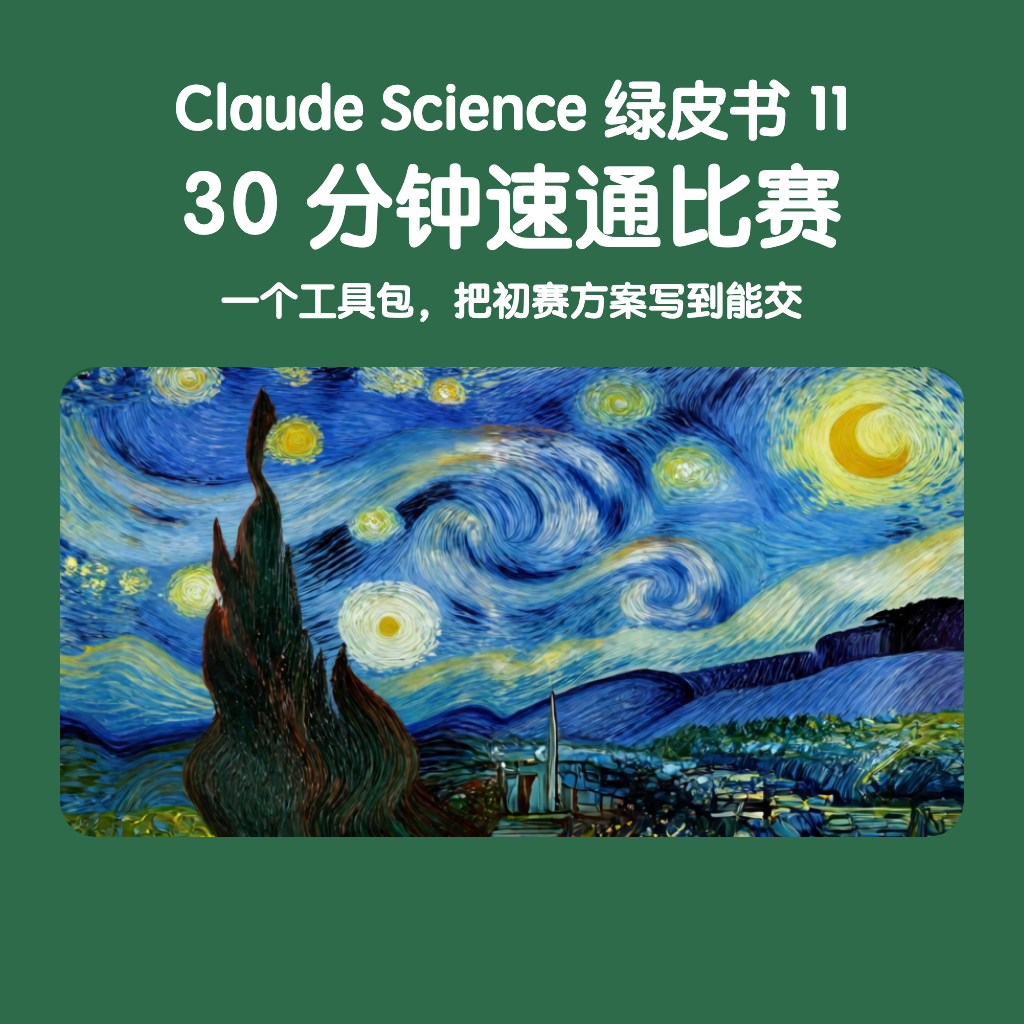
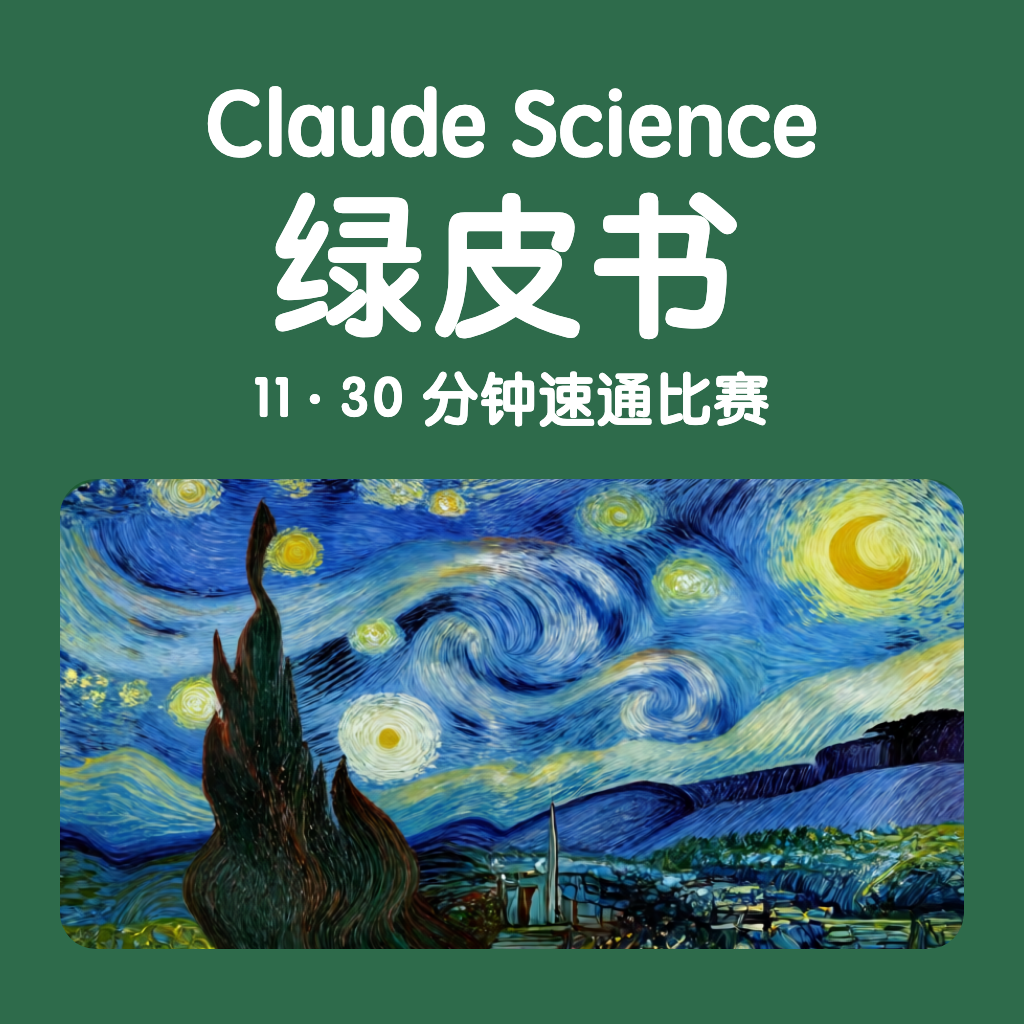
11 期封面：改回 d2-cover 标准三行结构

diff --git a/articles/assets/day11/cs11-cover.html b/articles/assets/day11/cs11-cover.html
@@ -2,14 +2,14 @@
 html,body{margin:0;width:1024px;height:1024px;overflow:hidden}
 body{font-family:"Yuanti SC","PingFang SC",sans-serif;background:#2E6B4B}
 .wrap{height:1024px;box-sizing:border-box;padding:74px 60px 0;display:flex;flex-direction:column;align-items:center;text-align:center}
-.en{color:#fff;font-size:62px;font-weight:900;line-height:1.05;letter-spacing:.01em}
-.zh{color:#fff;font-size:88px;font-weight:900;line-height:1.12;letter-spacing:.02em;margin-top:14px;white-space:nowrap}
-.day{margin-top:22px;color:#fff;font-size:38px;font-weight:800;letter-spacing:.02em;line-height:1.3}
+.en{color:#fff;font-size:92px;font-weight:900;line-height:1.05;letter-spacing:.01em}
+.zh{color:#fff;font-size:150px;font-weight:900;line-height:1.15;letter-spacing:.06em}
+.day{margin-top:14px;color:#fff;font-size:56px;font-weight:800;letter-spacing:.04em}
 .art{margin-top:44px;width:904px;height:470px;border-radius:36px;overflow:hidden}
 .art img{width:100%;display:block;margin-top:-20px}
 </style></head><body><div class="wrap">
-<div class="en">Claude Science 绿皮书 11</div>
-<div class="zh">30 分钟速通比赛</div>
-<div class="day">一个工具包，把初赛方案写到能交</div>
+<div class="en">Claude Science</div>
+<div class="zh">绿皮书</div>
+<div class="day">11 · 30 分钟速通比赛</div>
 <div class="art"><img src="../starry-art.png"></div>
 </div></body></html>
